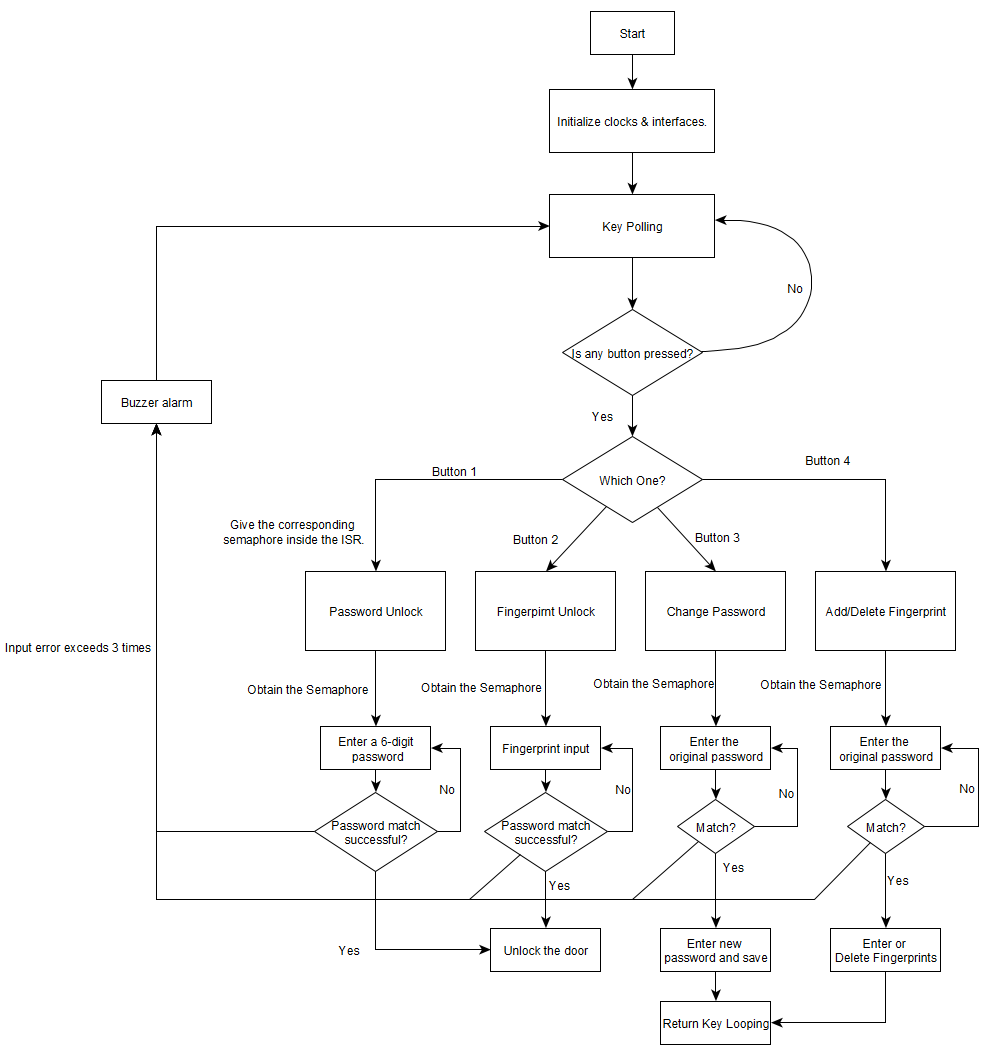
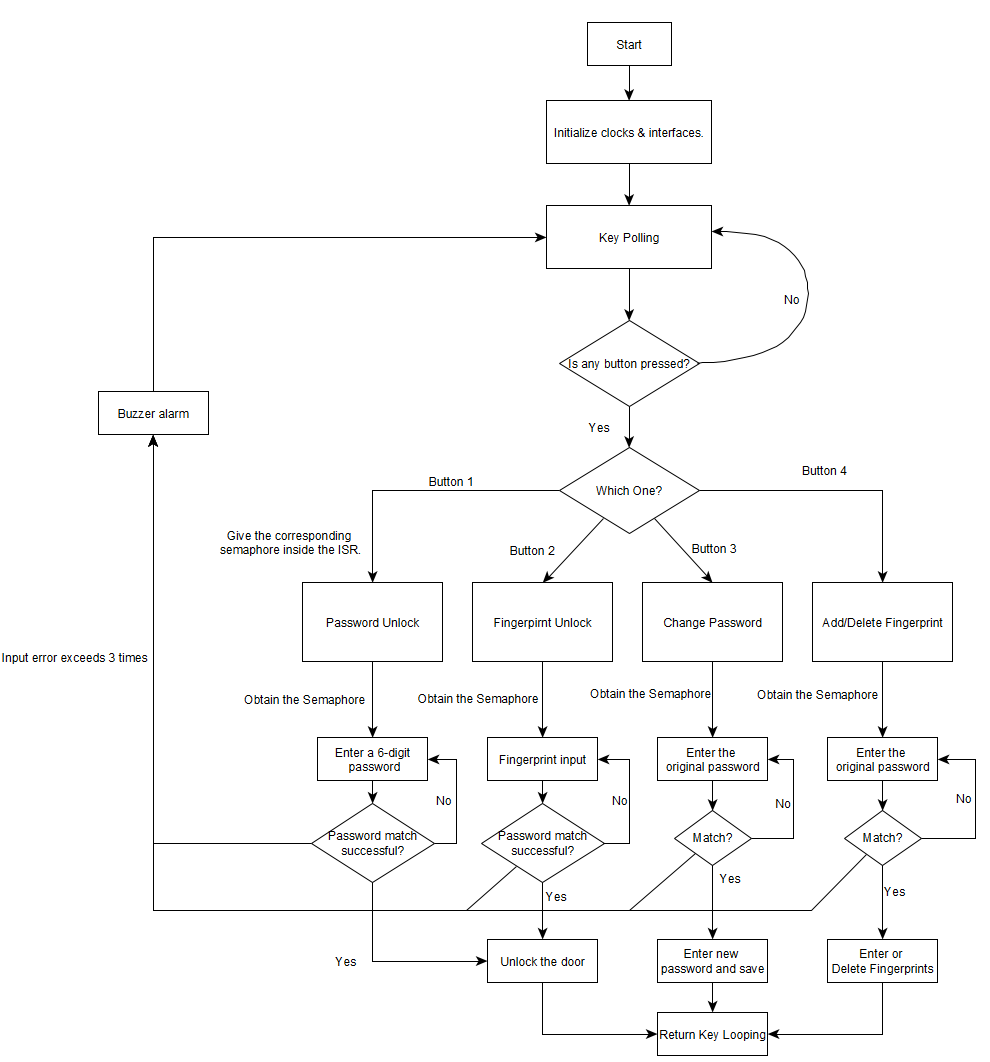
Update Fingerprint flowchart

diff --git a/A07G_README.md b/A07G_README.md
@@ -2,7 +2,7 @@
  * @Author: wyiwei1 wyiwei@seas.upenn.edu
  * @Date: 2025-03-18 22:48:58
  * @LastEditors: wyiwei1 wyiwei@seas.upenn.edu
- * @LastEditTime: 2025-03-21 14:35:20
+ * @LastEditTime: 2025-03-21 15:46:06
  * @FilePath: \final-project-a07g-a14g-t11-keep-real\A07G_README.md
  * @Description: 这是默认设置,请设置`customMade`, 打开koroFileHeader查看配置 进行设置: https://github.com/OBKoro1/koro1FileHeader/wiki/%E9%85%8D%E7%BD%AE
 -->
@@ -85,6 +85,10 @@ N/A
 
 ## 4. Flowcharts
 
-### 4.1 Keypad 
+### 4.1 Keypad  
 
 ![Keypad Flowchart](./images/7_2_Keypad_FlowChart.png)
+
+### 4.2 Fingerprint detection
+
+![Keypad Flowchart](./images/7_3_Fingerprint_Flowchart.png)
